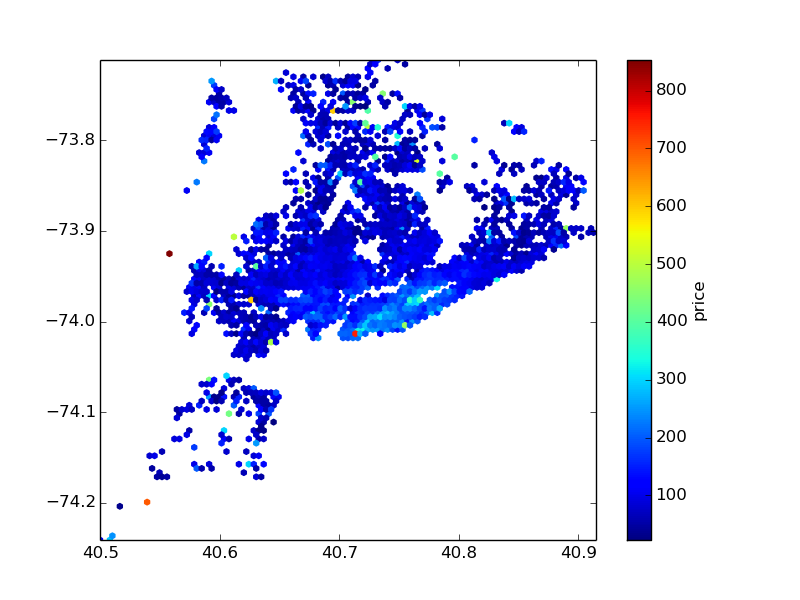
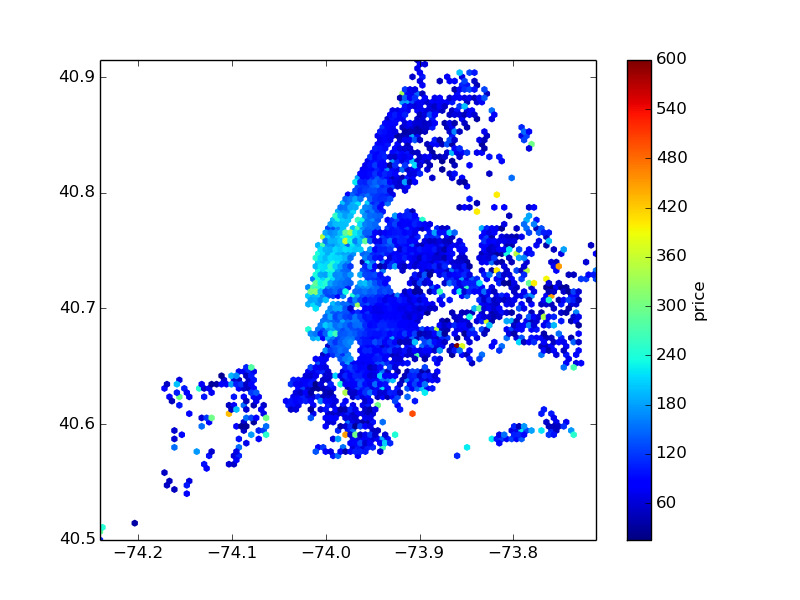
fixed lat long

diff --git a/python/new_york_file.py b/python/new_york_file.py
@@ -12,10 +12,7 @@ latList = []
 longList = []
 priceList = []
 
-LAT_INDEX = 6
-LONG_INDEX = 7
-PRICE_INDEX = 9
-MAX_PRICE = 1000
+MAX_PRICE = 600
 with open("listings.csv", "r") as f:
 	#next(f)
 	reader = csv.DictReader(f)
@@ -67,8 +64,8 @@ for rest in restList:
 
 gridsize = 100
 #PLT.subplot(111)
-PLT.hexbin(latList, longList, C=priceList, gridsize=gridsize, cmap=CM.jet, bins=None)
-PLT.axis([min(latList), max(latList), min(longList), max(longList)])
+PLT.hexbin(longList, latList, C=priceList, gridsize=gridsize, cmap=CM.jet, bins=None)
+PLT.axis([min(longList), max(longList), min(latList), max(latList)])
 
 cb = PLT.colorbar()
 cb.set_label('price')
